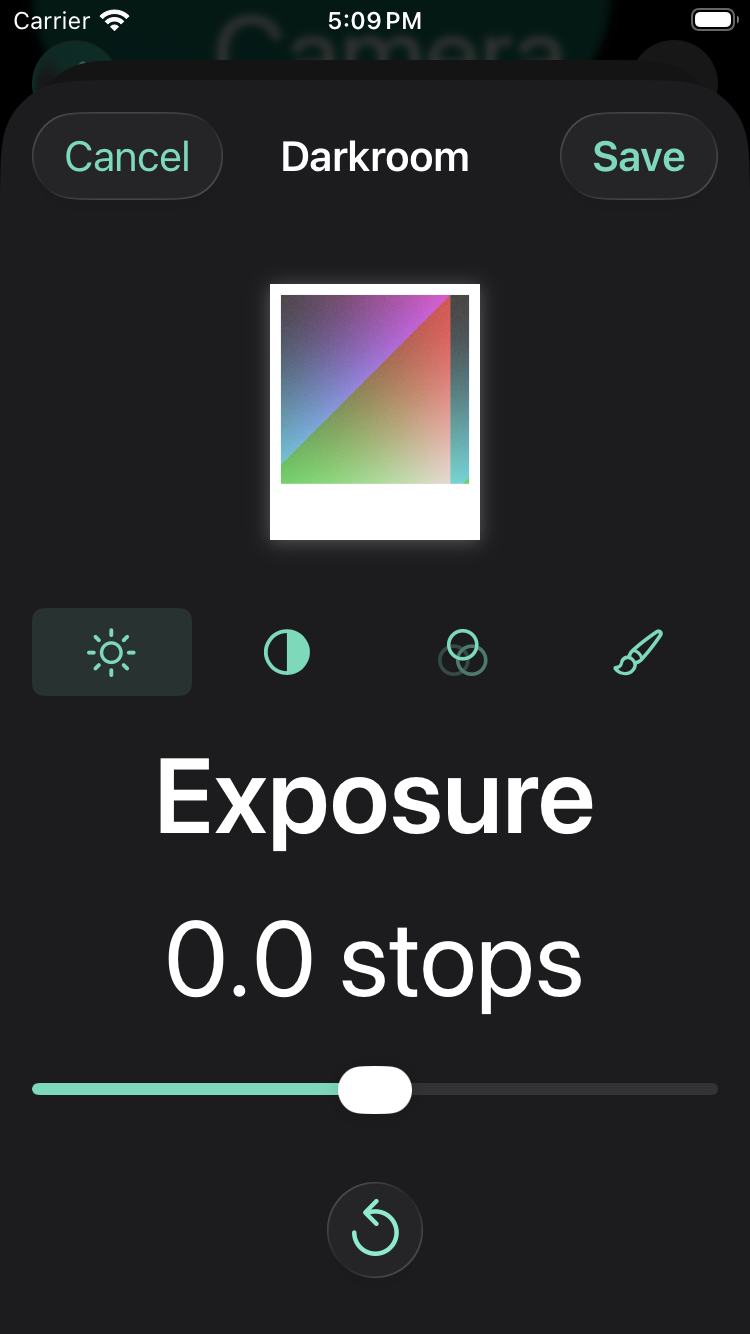
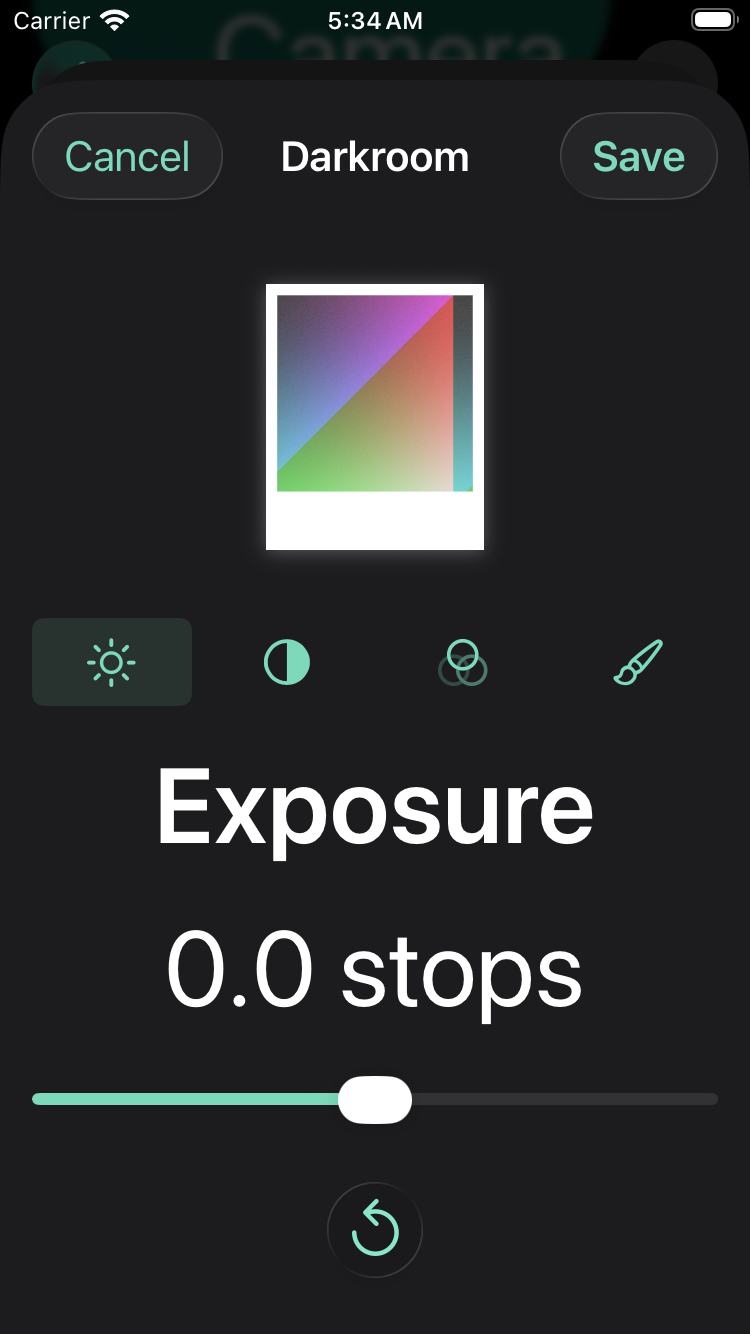
docs: re-capture the Darkroom evidence after the bottom-margin fix and record its verification

diff --git a/Evidence/NativeApp/prd-2-slice-1-names-card-copy.md b/Evidence/NativeApp/prd-2-slice-1-names-card-copy.md
@@ -93,3 +93,10 @@ The harness shots are on an iPhone SE (3rd generation), the smallest supported i
 
 No physical iPhone, no real camera capture, and no review of the Instant look against its Format Reference (the later looks slice).
 The Catalog's "Choose a Camera" title truncates and "Disposable" hyphenates at the largest accessibility size; both predate this slice.
+
+## Re-verification of the Darkroom bottom margin
+
+After the pipeline's fix commit (`6f0552d`, merged with main as `599502b`) the iPhone SE (3rd generation) harness ran in light and in dark: the Darkroom fit test with its Dodge/Burn checks, the Instant card test, the early photo test and the three retained Darkroom tests all pass, and the Darkroom fit, Dodge/Burn and Instant Darkroom screenshots above were captured again from that run.
+On the iPhone 17 the hosted suite passes, including the Darkroom error test, apart from the four local StoreKit fixture tests.
+`testLargestDynamicTypeCatalogAndLandscapeSettings` reported "Text clipped" once while the harness was running on the same machine and passed twice when rerun alone.
+
